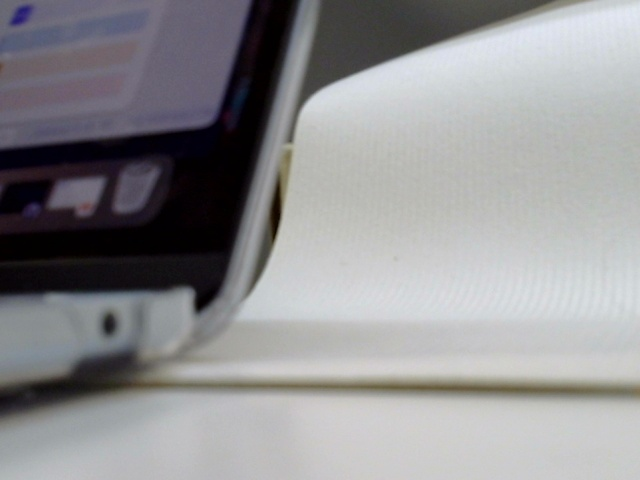
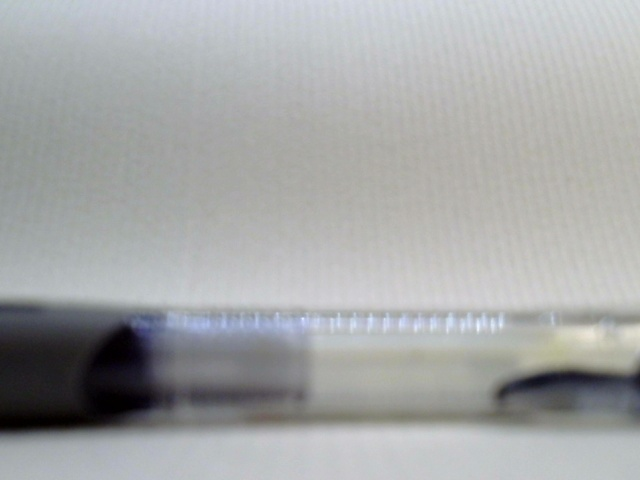
daily schedule lab5b first ver

diff --git a/Lab 5/templates/index.html b/Lab 5/templates/index.html
@@ -1,0 +1,274 @@
+<!-- templates/index.html -->
+<!DOCTYPE html>
+<html lang="en">
+<head>
+    <meta charset="UTF-8">
+    <meta name="viewport" content="width=device-width, initial-scale=1.0">
+    <title>Daily Check-in Dashboard</title>
+    <style>
+        body {
+            font-family: Arial, sans-serif;
+            margin: 0;
+            padding: 20px;
+            background-color: #f5f5f5;
+        }
+        
+        h1 {
+            color: #333;
+            text-align: center;
+            margin-bottom: 30px;
+        }
+        
+        .main-container {
+            display: flex;
+            gap: 20px;
+            max-width: 1400px;
+            margin: 0 auto;
+        }
+        
+        /* Left side - Schedule */
+        .left-panel {
+            flex: 1;
+            background-color: white;
+            padding: 20px;
+            border-radius: 10px;
+            box-shadow: 0 2px 10px rgba(0,0,0,0.1);
+        }
+        
+        .left-panel h2 {
+            margin-top: 0;
+            color: #333;
+            border-bottom: 2px solid #4caf50;
+            padding-bottom: 10px;
+        }
+        
+        .schedule-container {
+            max-height: 600px;
+            overflow-y: auto;
+        }
+        
+        .schedule-item {
+            display: flex;
+            background-color: #ffffff;
+            padding: 15px;
+            margin-bottom: 12px;
+            border-radius: 8px;
+            border: 1px solid #e0e0e0;
+            box-shadow: 0 1px 3px rgba(0,0,0,0.1);
+            animation: slideIn 0.3s ease;
+        }
+        
+        @keyframes slideIn {
+            from {
+                opacity: 0;
+                transform: translateX(-20px);
+            }
+            to {
+                opacity: 1;
+                transform: translateX(0);
+            }
+        }
+        
+        .schedule-time {
+            min-width: 90px;
+            font-size: 16px;
+            font-weight: bold;
+            color: #4caf50;
+            padding-right: 15px;
+            border-right: 2px solid #e0e0e0;
+        }
+        
+        .schedule-content {
+            flex: 1;
+            padding-left: 15px;
+        }
+        
+        .schedule-activity {
+            font-size: 16px;
+            color: #333;
+            line-height: 1.5;
+        }
+        
+        /* Right side - Real-time detection */
+        .right-panel {
+            flex: 1;
+            background-color: white;
+            padding: 20px;
+            border-radius: 10px;
+            box-shadow: 0 2px 10px rgba(0,0,0,0.1);
+        }
+        
+        .right-panel h2 {
+            margin-top: 0;
+            color: #333;
+            border-bottom: 2px solid #ff9800;
+            padding-bottom: 10px;
+        }
+        
+        .status {
+            text-align: center;
+            padding: 20px;
+            background-color: #e8f5e9;
+            border-radius: 5px;
+            margin-bottom: 20px;
+        }
+        
+        .result-box {
+            background-color: #fff3e0;
+            padding: 40px;
+            border-radius: 10px;
+            text-align: center;
+        }
+        
+        .label {
+            font-size: 36px;
+            font-weight: bold;
+            color: #ff6f00;
+            margin: 10px 0;
+        }
+        
+        .confidence {
+            font-size: 24px;
+            color: #666;
+        }
+        
+        .empty-schedule {
+            text-align: center;
+            color: #999;
+            padding: 40px;
+        }
+    </style>
+</head>
+<body>
+    <h1>Daily Check-in Dashboard</h1>
+    
+    <div class="main-container">
+        <!-- Left Panel - Schedule -->
+        <div class="left-panel">
+            <h2>Today's Schedule</h2>
+            <div class="schedule-container" id="scheduleContainer">
+                <div class="empty-schedule">No activities yet</div>
+            </div>
+        </div>
+        
+        <!-- Right Panel - Real-time Detection -->
+        <div class="right-panel">
+            <h2>Live Detection</h2>
+            
+            <div class="status">
+                <p>Camera is detecting objects in real-time</p>
+            </div>
+            
+            <div class="result-box">
+                <h3>Current Detection:</h3>
+                <div class="label" id="label">Waiting...</div>
+                <div class="confidence" id="confidence">--</div>
+            </div>
+        </div>
+    </div>
+
+    <script>
+        let lastLoggedLabel = '';
+        let lastLoggedTime = 0;
+        const LOG_COOLDOWN = 10000; // 5 seconds in milliseconds
+        
+        // Activity mapping
+        const activityMap = {
+            '0 orange': 'Eat an orange',
+            '1 pen': 'Complete a math exercise',
+            '2 mug': 'Drink a cup of water',
+            '3 raspberry': 'Work on Interactive Lab homework',
+            '4 vitamin': 'Take vitamin',
+            '5 notebook': 'Organize notes'
+        };
+        
+        // Get current time string with seconds
+        function getCurrentTime() {
+            const now = new Date();
+            const hours = String(now.getHours()).padStart(2, '0');
+            const minutes = String(now.getMinutes()).padStart(2, '0');
+            const seconds = String(now.getSeconds()).padStart(2, '0');
+            return `${hours}:${minutes}:${seconds}`;
+        }
+        
+        // Add schedule item
+        function addScheduleItem(label) {
+            const activity = activityMap[label];
+            
+            // Don't add if no mapping
+            if (!activity) return;
+            
+            const scheduleContainer = document.getElementById('scheduleContainer');
+            
+            // Remove empty message if exists
+            const emptySchedule = scheduleContainer.querySelector('.empty-schedule');
+            if (emptySchedule) {
+                emptySchedule.remove();
+            }
+            
+            // Create new schedule item
+            const scheduleItem = document.createElement('div');
+            scheduleItem.className = 'schedule-item';
+            scheduleItem.innerHTML = `
+                <div class="schedule-time">${getCurrentTime()}</div>
+                <div class="schedule-content">
+                    <div class="schedule-activity">${activity}</div>
+                </div>
+            `;
+            
+            // Add to top of schedule
+            scheduleContainer.insertBefore(scheduleItem, scheduleContainer.firstChild);
+        }
+        
+        // Update recognition results
+        function updateResult() {
+            fetch('/api/result')
+                .then(response => response.json())
+                .then(data => {
+                    // Update right panel
+                    document.getElementById('label').textContent = data.label;
+                    document.getElementById('confidence').textContent = 
+                        'Confidence: ' + data.confidence.toFixed(2) + '%';
+                    
+                    const currentTime = Date.now();
+                    
+                    // Check if should log:
+                    // 1. Not blank
+                    // 2. Confidence > 90
+                    // 3. Either different object OR same object but after 5 seconds cooldown
+                    if (data.confidence > 90 && activityMap[data.label]) {
+                        const timeSinceLastLog = currentTime - lastLoggedTime;
+                        
+                        // Log if: different label OR same label but cooldown passed
+                        if (data.label !== lastLoggedLabel) {
+                            // Different object - log immediately
+                            addScheduleItem(data.label);
+                            lastLoggedLabel = data.label;
+                            lastLoggedTime = currentTime;
+                            console.log('Logged new item:', data.label);
+                        } else if (timeSinceLastLog >= LOG_COOLDOWN) {
+                            // Same object but cooldown passed - log again
+                            addScheduleItem(data.label);
+                            lastLoggedTime = currentTime;
+                            console.log('Logged same item after cooldown:', data.label);
+                        } else {
+                            console.log('Skipped - cooldown active:', (LOG_COOLDOWN - timeSinceLastLog) / 1000, 'seconds left');
+                        }
+                    }
+                    
+                    // Reset tracking if we see blank
+                    if (data.label === '6 blank') {
+                        lastLoggedLabel = '';
+                    }
+                })
+                .catch(error => console.error('Error:', error));
+        }
+        
+        // Update every 1 second
+        setInterval(updateResult, 1000);
+        
+        // Run once immediately
+        updateResult();
+    </script>
+</body>
+</html>

diff --git a/Lab 5/app.py b/Lab 5/app.py
@@ -1,0 +1,57 @@
+# app.py
+from flask import Flask, render_template, jsonify
+from teachable_machine_lite import TeachableMachineLite
+import cv2 as cv
+import threading
+import time
+
+app = Flask(__name__)
+
+# Global variable to store recognition results
+current_result = {"label": "blank", "confidence": 0}
+
+# Teachable Machine setup
+model_path = 'model/model.tflite'
+image_file_name = "frame.jpg"
+labels_path = "model/labels.txt"
+
+def run_camera():
+    """Run camera recognition in background"""
+    global current_result
+    
+    cap = cv.VideoCapture(0)
+    tm_model = TeachableMachineLite(model_path=model_path, labels_file_path=labels_path)
+    
+    while True:
+        ret, frame = cap.read()
+        if not ret:
+            print("Failed to read camera")
+            break
+            
+        cv.imwrite(image_file_name, frame)
+        results = tm_model.classify_image(image_file_name)
+        
+        if results:
+            print("Results:", results)
+            current_result = {
+                "label": results['label'],
+                "confidence": results['confidence']
+            }
+            print(f"Top result: {results['label']} - {results['confidence']:.2f}%")
+        
+        time.sleep(1)
+
+@app.route('/')
+def index():
+    return render_template('index.html')
+
+# New API endpoint to get current result
+@app.route('/api/result')
+def get_result():
+    return jsonify(current_result)
+
+if __name__ == '__main__':
+    camera_thread = threading.Thread(target=run_camera, daemon=True)
+    camera_thread.start()
+    
+    app.run(host='0.0.0.0', port=5000, debug=False)

diff --git a/Lab 5/tml_example.py b/Lab 5/tml_example.py
@@ -5,7 +5,7 @@ cap = cv.VideoCapture(0)
 
 model_path = 'model/model.tflite'
 image_file_name = "frame.jpg"
-labels_path = "labels.txt"
+labels_path = "model/labels.txt"
 
 tm_model = TeachableMachineLite(model_path=model_path, labels_file_path=labels_path)
 
